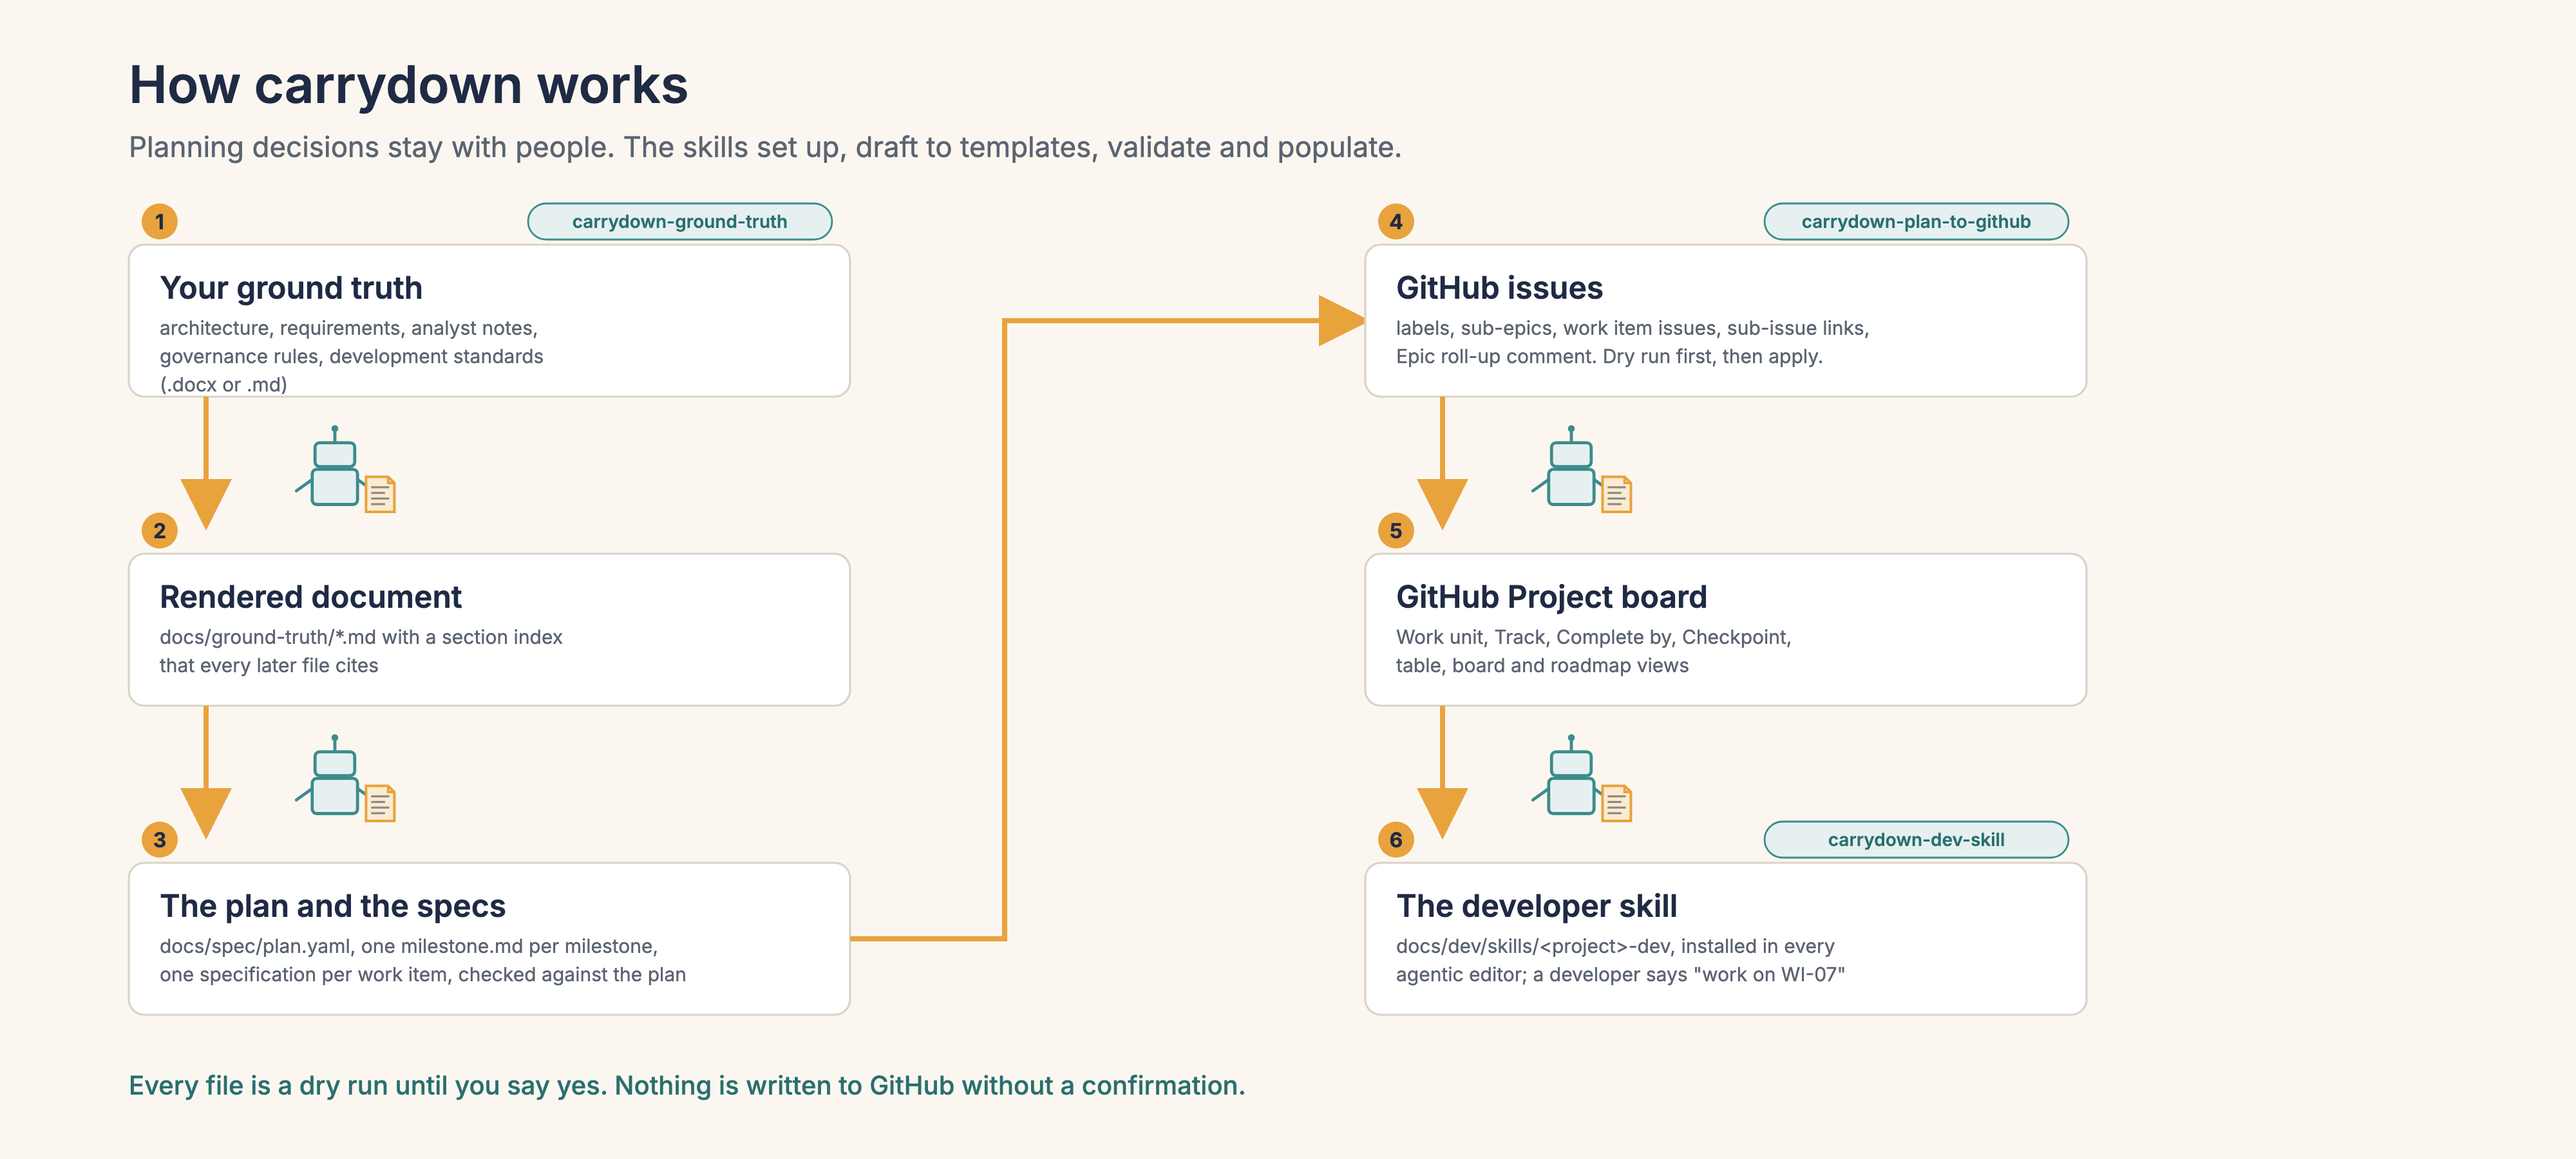
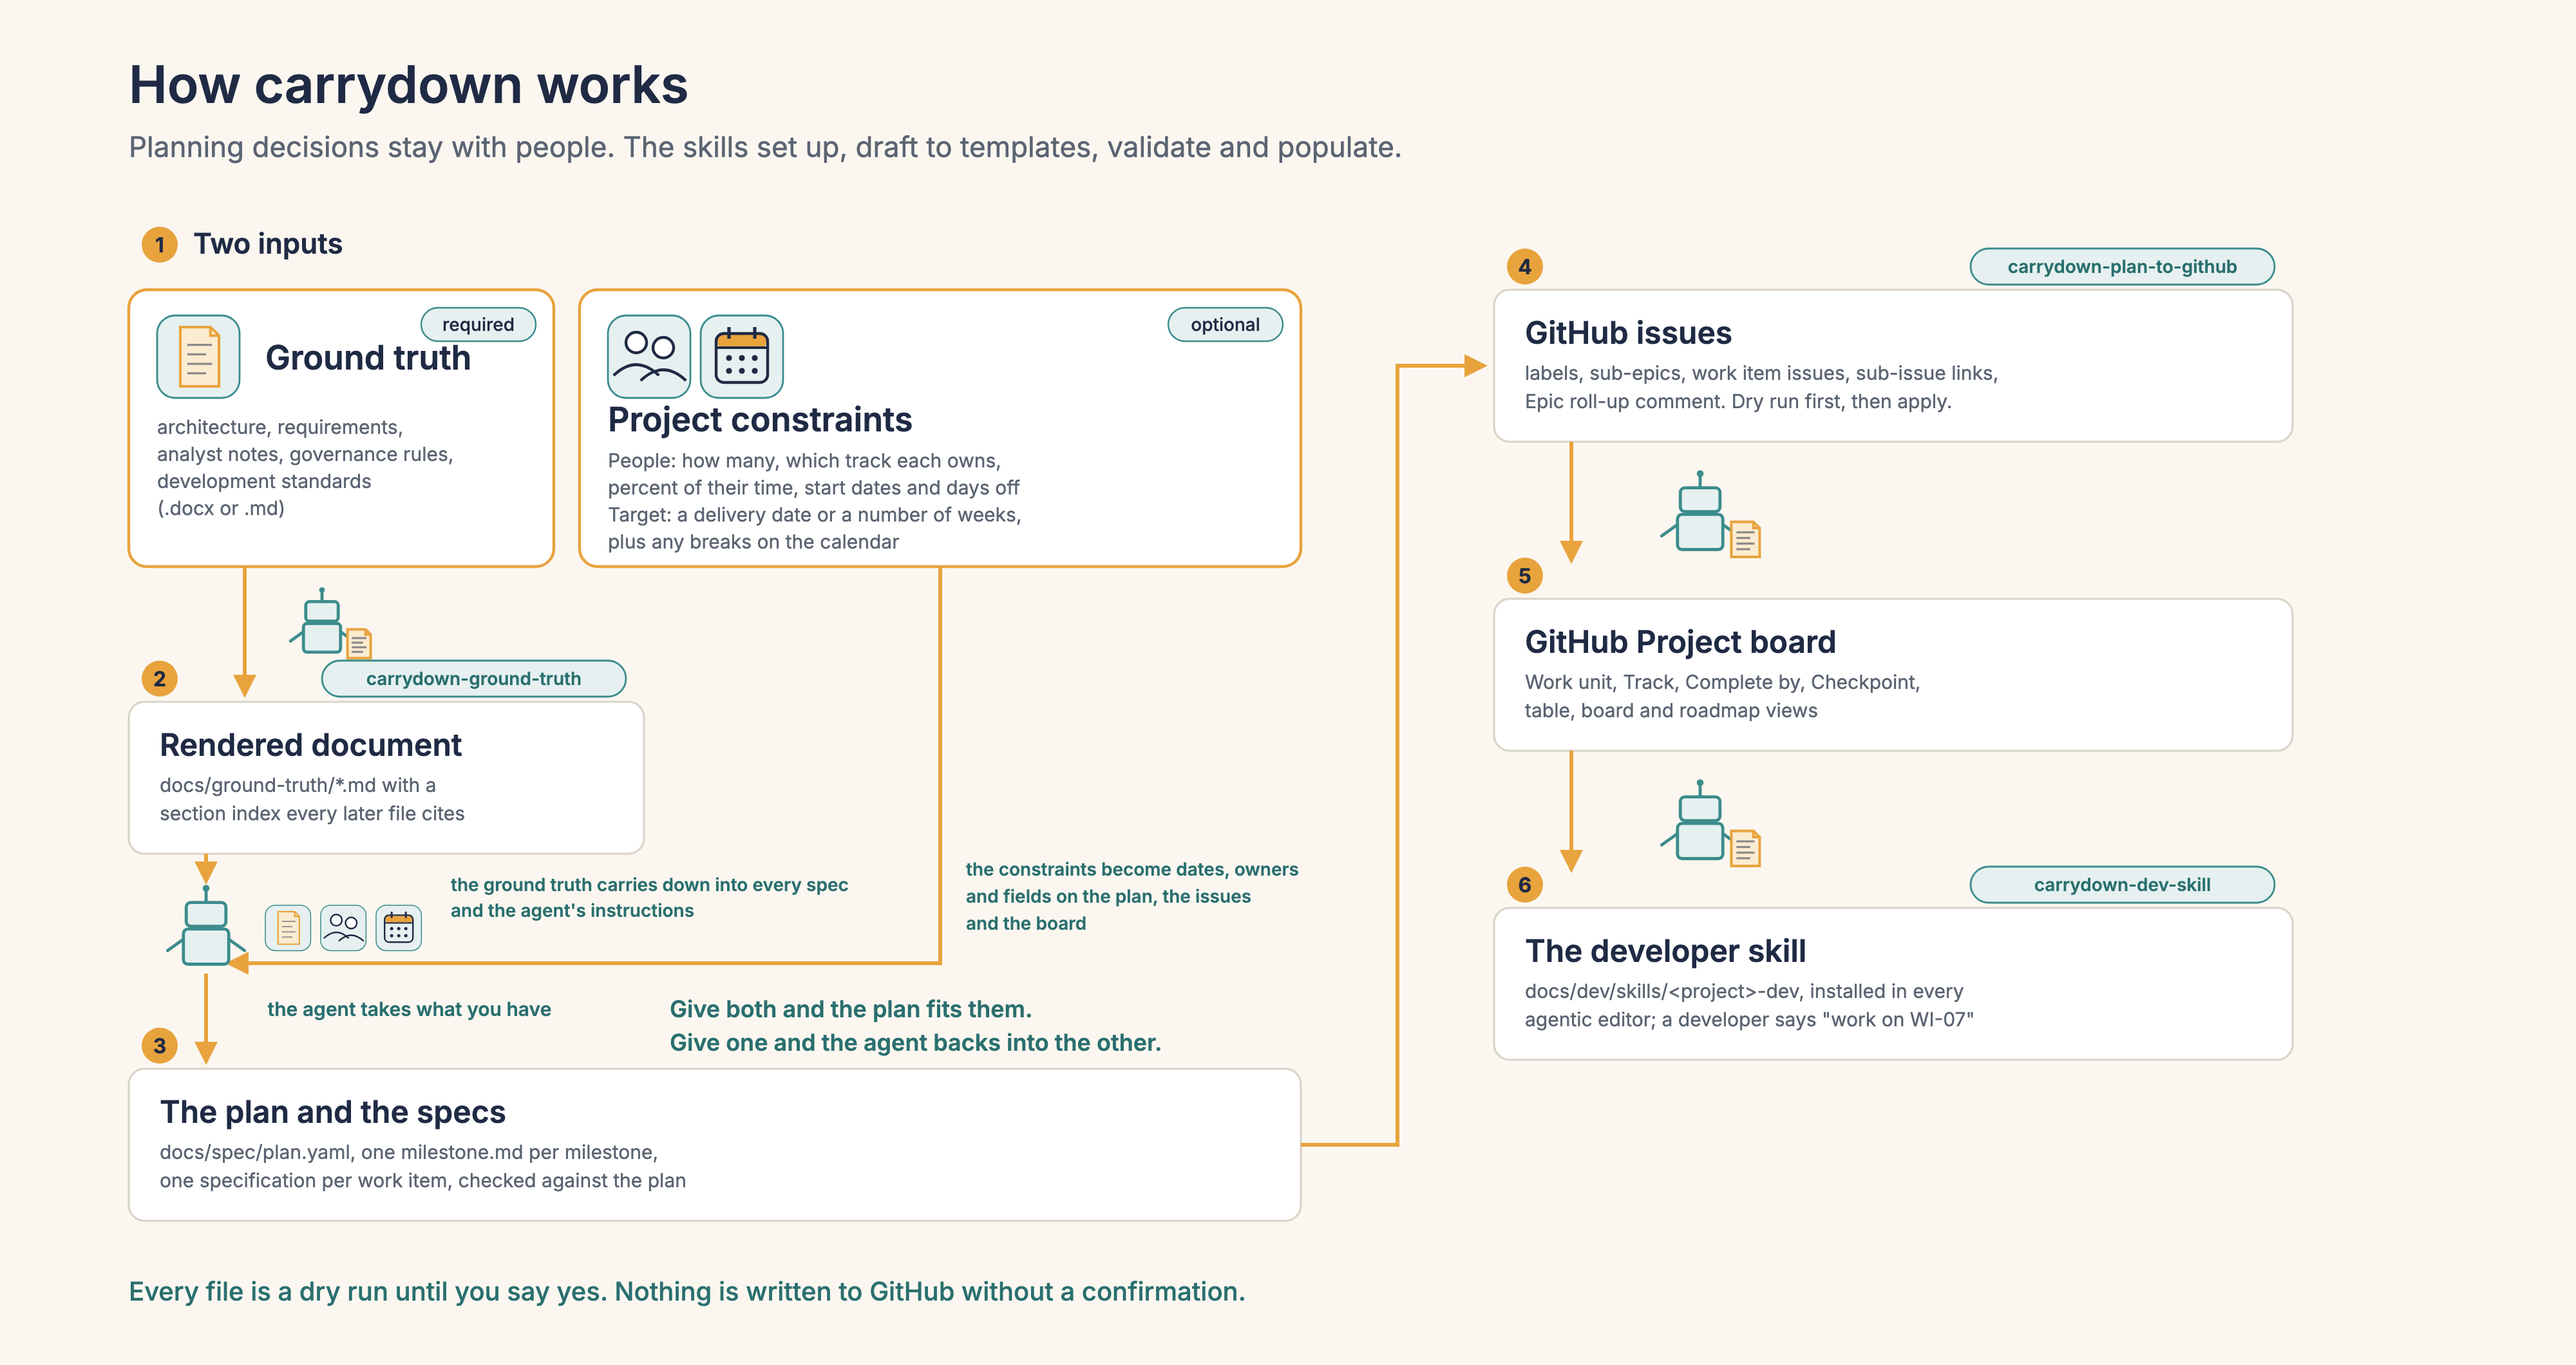
Refresh badges and the flow image

diff --git a/README.md b/README.md
@@ -4,7 +4,7 @@
 
 Turn your architecture document into a plan your team and its AI coding agents can follow: dated milestones, one spec per task tied to the paragraph it came from, GitHub issues, a filled project board, and a skill that makes each developer's agent read the spec first.
 
-[![Licence](https://img.shields.io/github/license/sct-will/carrydown)](LICENSE) [![Last commit](https://img.shields.io/github/last-commit/sct-will/carrydown)](https://github.com/sct-will/carrydown/commits/main) [![Issues](https://img.shields.io/github/issues/sct-will/carrydown)](https://github.com/sct-will/carrydown/issues) [![CI](https://github.com/sct-will/carrydown/actions/workflows/ci.yml/badge.svg)](https://github.com/sct-will/carrydown/actions/workflows/ci.yml) [![Content: CC BY 4.0](https://img.shields.io/badge/content-CC%20BY%204.0-blue)](LICENSE-CONTENT.md) [![Agent Skills](https://img.shields.io/badge/Agent%20Skills-3%20skills-teal)](https://agentskills.io) [![Python 3.9+](https://img.shields.io/badge/python-3.9%2B-blue)](#requirements-and-access) [![Open in Codespaces](https://github.com/codespaces/badge.svg)](https://codespaces.new/sct-will/carrydown)
+[![Licence](https://img.shields.io/github/license/sct-will/carrydown?v=2)](LICENSE) [![Last commit](https://img.shields.io/github/last-commit/sct-will/carrydown?v=2)](https://github.com/sct-will/carrydown/commits/main) [![Issues](https://img.shields.io/github/issues/sct-will/carrydown?v=2)](https://github.com/sct-will/carrydown/issues) [![CI](https://github.com/sct-will/carrydown/actions/workflows/ci.yml/badge.svg)](https://github.com/sct-will/carrydown/actions/workflows/ci.yml) [![Content: CC BY 4.0](https://img.shields.io/badge/content-CC%20BY%204.0-blue)](LICENSE-CONTENT.md) [![Agent Skills](https://img.shields.io/badge/Agent%20Skills-3%20skills-teal)](https://agentskills.io) [![Python 3.9+](https://img.shields.io/badge/python-3.9%2B-blue)](#requirements-and-access) [![Open in Codespaces](https://github.com/codespaces/badge.svg)](https://codespaces.new/sct-will/carrydown)
 
 [Getting started](#getting-started) · [How it works](#how-it-works) · [What you get](#what-you-get) · [Install options](#install-options) · [Requirements and access](#requirements-and-access) · [Sample](#sample) · [Run the scripts yourself](#run-the-scripts-yourself) · [FAQ](#faq) · [Contributing](#contributing) · [Licence](#licence) · [For agents](AGENTS.md)
 
